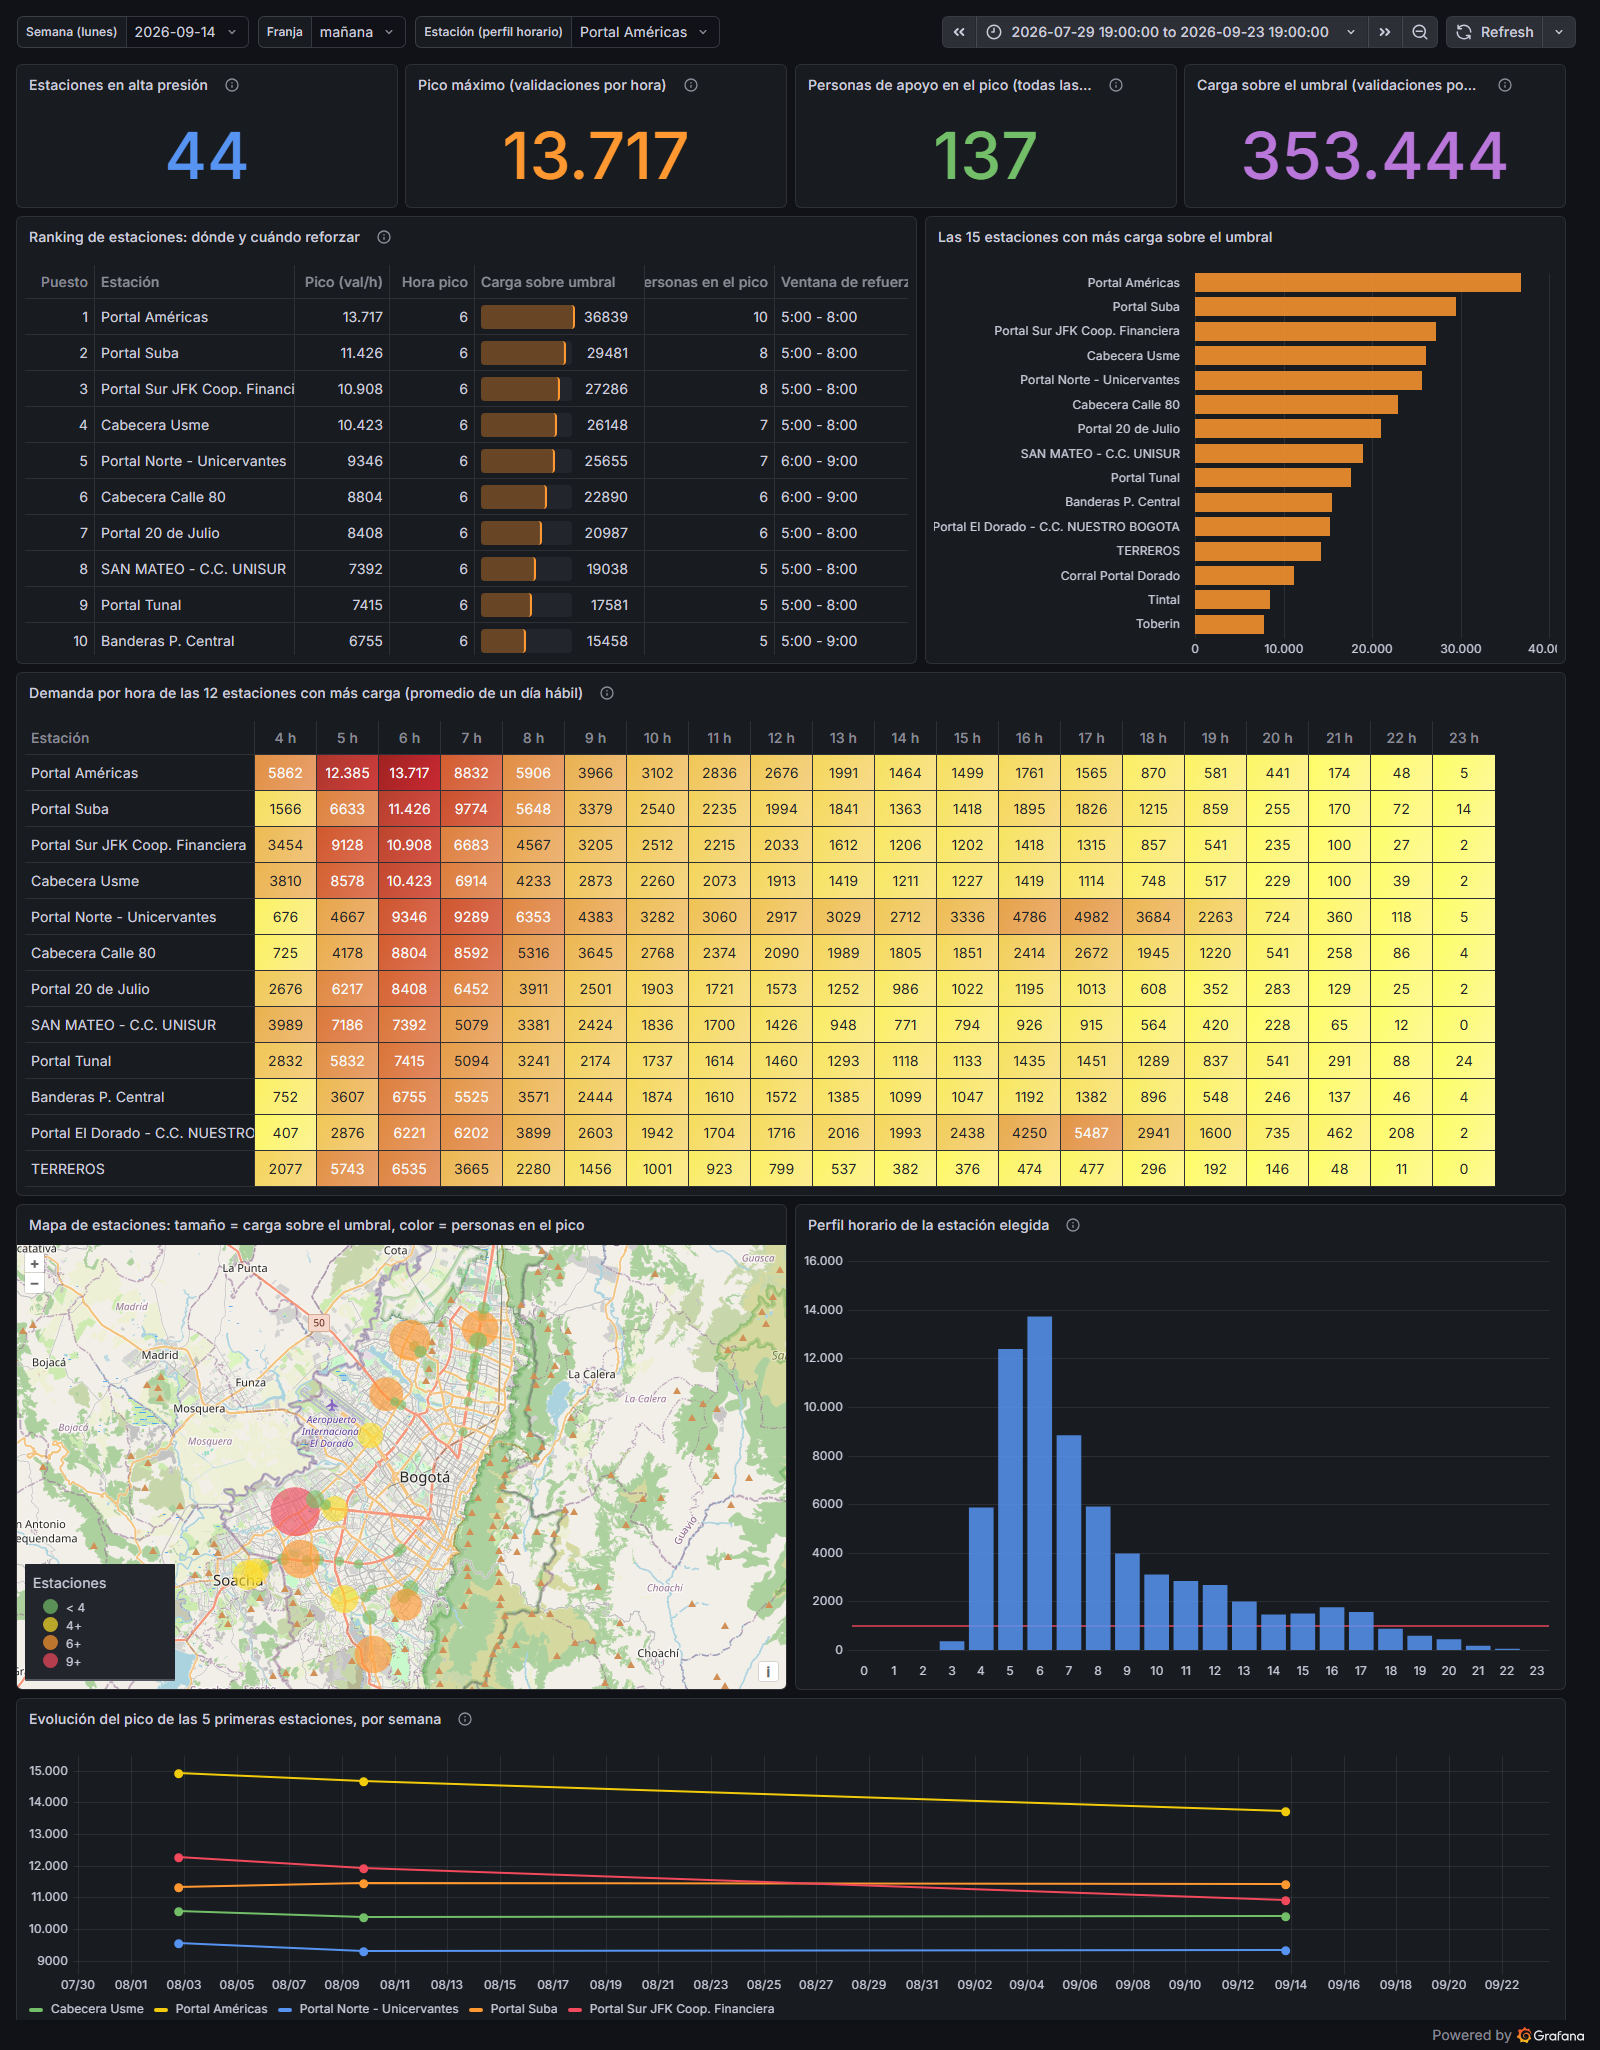
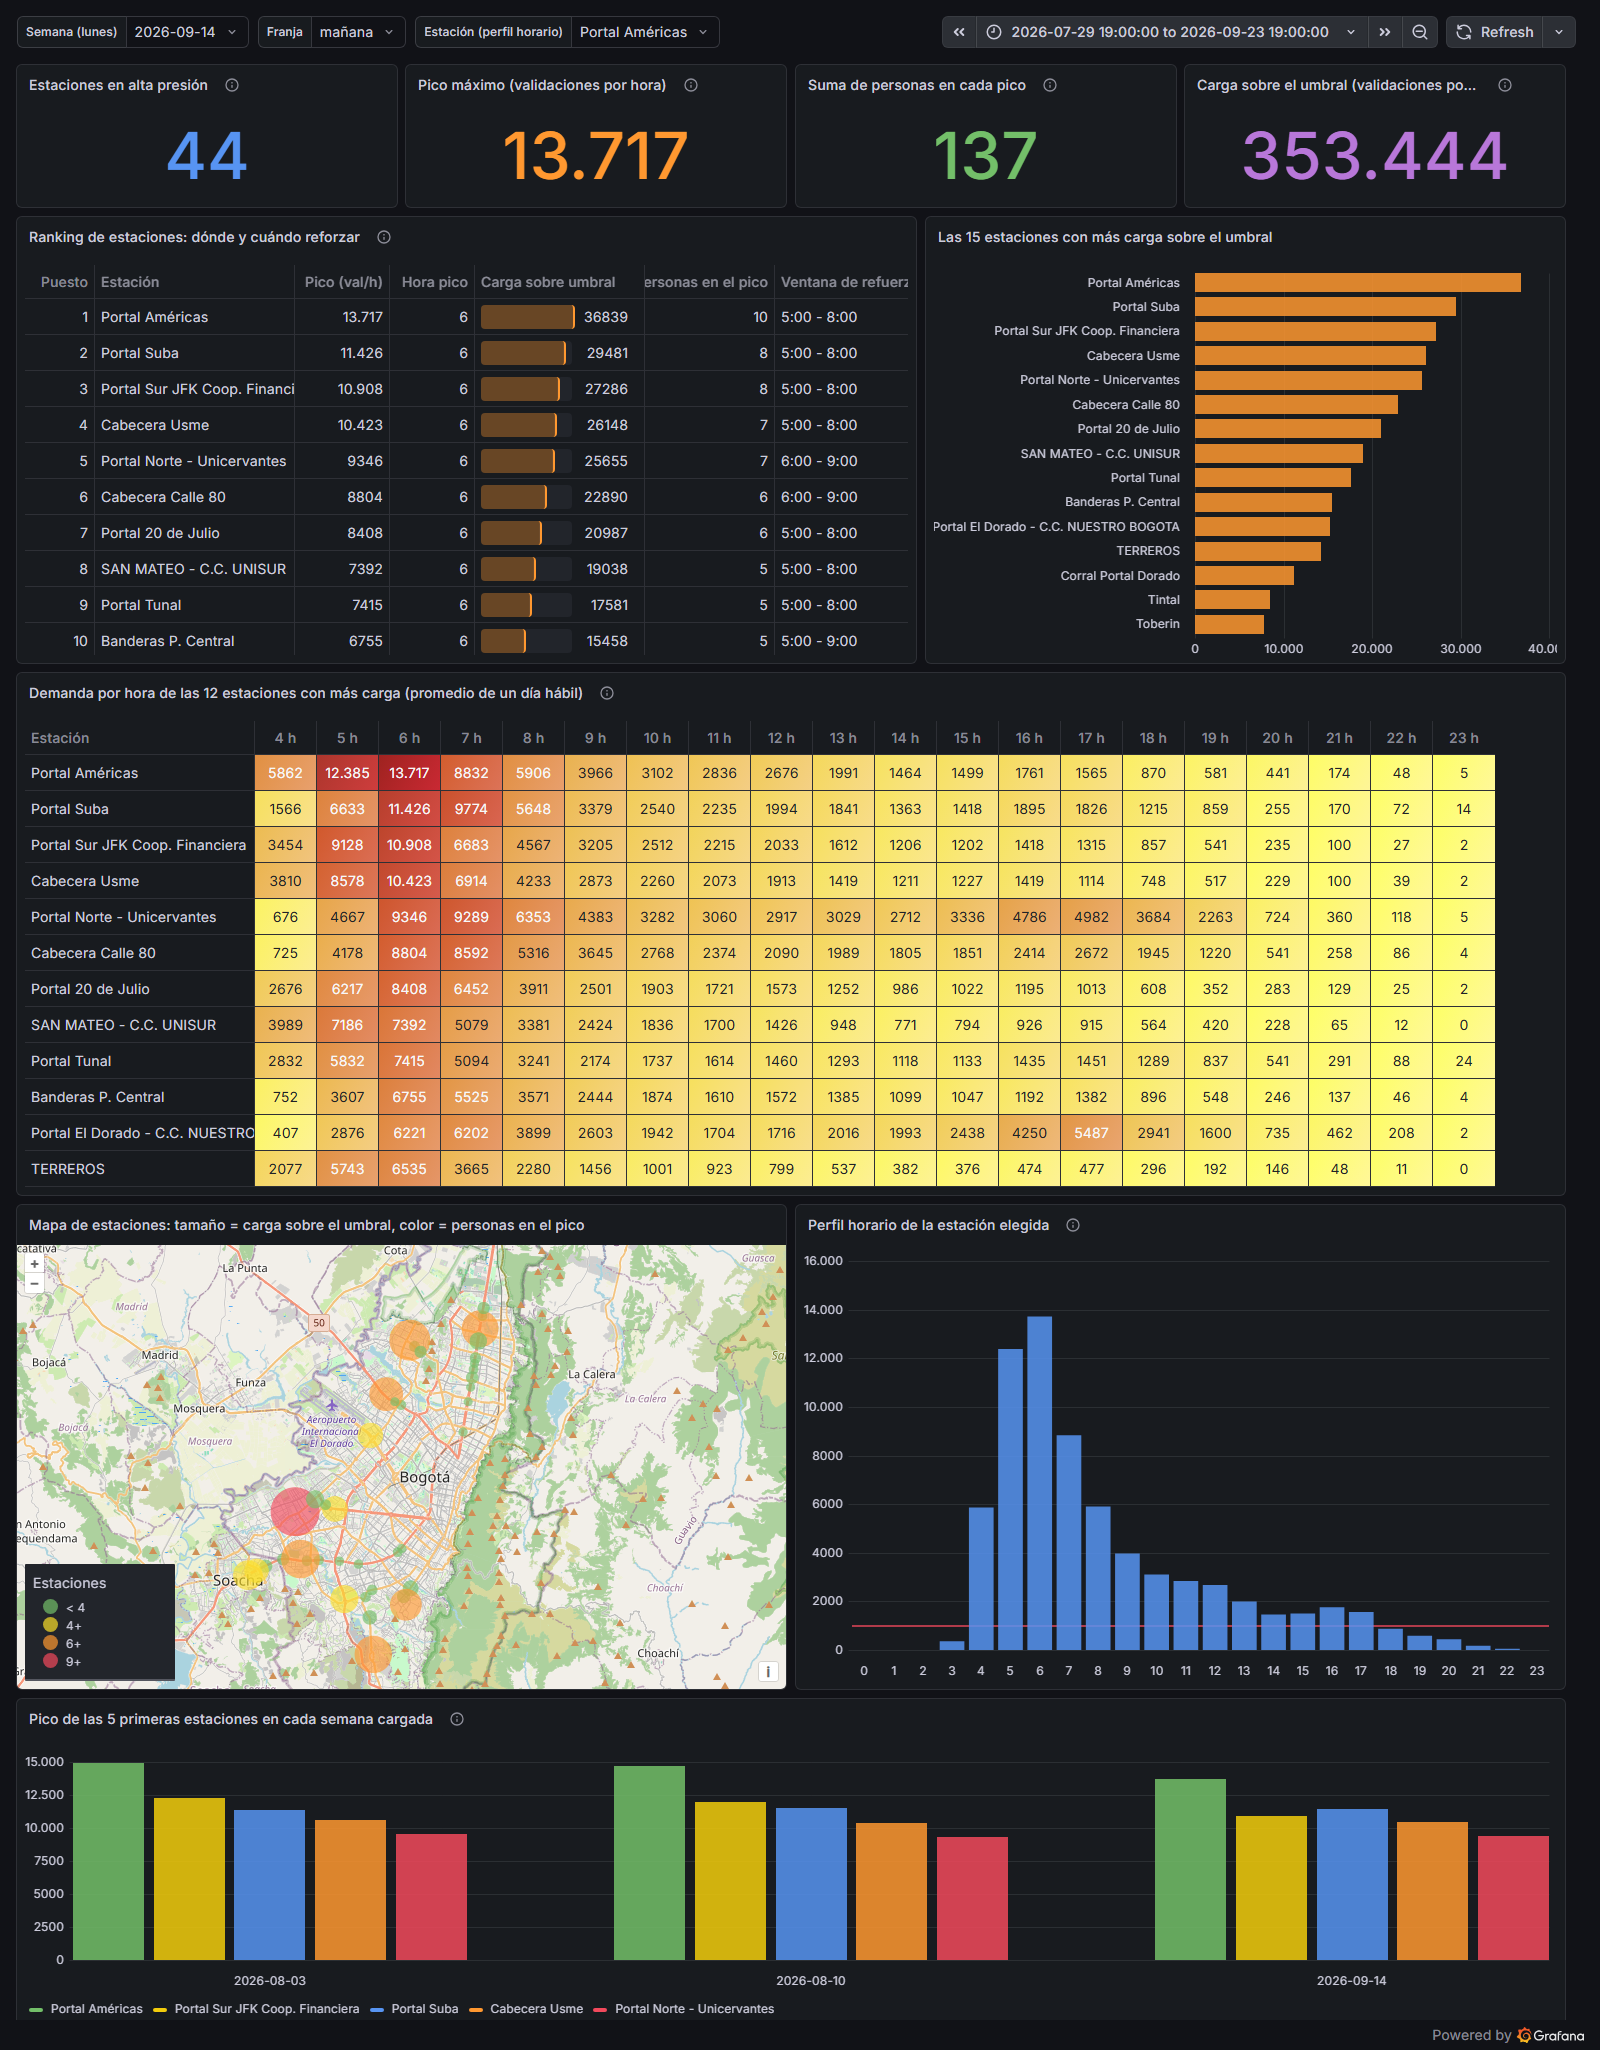
Ajustes por la revisión: tablero, arquitectura y documentación
- Tablero: el KPI de personas pasa a "Suma de personas en cada pico" con descripción que aclara que no son personas simultáneas; la evolución del pico pasa a barras agrupadas por semana. Capturas de evidencia regeneradas.
- Arquitectura: diagrama en dos bandas (ingeniería de datos y analítica) con la limpieza y el EDA a la vista; README con el mismo orden.
- .env.example: se agrega GRAFANA_ADMIN_PASSWORD.
- Objetivo 4 (notebook 03 y resultados_clave.md): el margen de incertidumbre se reporta en el notebook 04, no en la tabla de AWS.

Changed region(s): [[0.0, 0.8117, 0.9688, 0.999], [0.5312, 0.0312, 0.6562, 0.0624], [0.2188, 0.8117, 0.25, 0.8429]]

diff --git a/docs/resultados_clave.md b/docs/resultados_clave.md
@@ -76,7 +76,7 @@ Todas las cifras de esta ficha salen de los notebooks, del benchmark de Dask, de
 1. Describir cómo se distribuye la demanda de ingreso a lo largo de la semana y del día, y justificar el análisis solo con días hábiles.
 2. Ordenar las estaciones y franjas por demanda y definir, con la operación, el umbral de alta presión (punto de partida: 1.000 validaciones por hora).
 3. Construir un modelo que anticipe la demanda por estación y hora y compararlo con el promedio histórico mediante validación temporal.
-4. Entregar a la gerencia un ranking de estaciones y franjas, con su margen de incertidumbre, y un tablero.
+4. Entregar a la gerencia un ranking de estaciones y franjas y un tablero. El margen de incertidumbre del pico (intervalo del 95 % del promedio de 14 días) se reporta en el análisis del notebook 04.
 
 - **Unidad de análisis:** estación x día x hora (en días hábiles).
 - **Variable objetivo:** `validaciones` (conteo); y su versión binaria "hora de alta presión" (validaciones por encima de un umbral definido con la operación).
@@ -289,7 +289,7 @@ Evidencias: `docs/evidencias/flujo_cargas_por_semana.md` (consulta y registros d
 
 ## 8. Tablero de Grafana (punto g)
 
-`grafana/dashboard.json` (se levanta con `docker compose up -d`). Filtros: semana, franja y estación. Paneles: estaciones en alta presión, pico máximo, personas de apoyo en el pico y carga sobre el umbral; ranking con ventana de refuerzo; las 15 estaciones con más carga; demanda por hora de las 12 estaciones con más carga; mapa de estaciones; perfil horario de la estación elegida; evolución del pico por semana. Capturas a tamaño completo: `docs/evidencias/grafana_tablero_manana_semana_14sep.png` y `docs/evidencias/grafana_tablero_tarde_semana_14sep.png`.
+`grafana/dashboard.json` (se levanta con `docker compose up -d`). Filtros: semana, franja y estación. Paneles: estaciones en alta presión, pico máximo, suma de personas en cada pico y carga sobre el umbral; ranking con ventana de refuerzo; las 15 estaciones con más carga; demanda por hora de las 12 estaciones con más carga; mapa de estaciones; perfil horario de la estación elegida; pico de las cinco primeras estaciones en barras por semana. Capturas a tamaño completo: `docs/evidencias/grafana_tablero_manana_semana_14sep.png` y `docs/evidencias/grafana_tablero_tarde_semana_14sep.png`.
 
 ## 9. Limitaciones (para la sección de conclusiones del documento)
 

diff --git a/README.md b/README.md
@@ -24,7 +24,7 @@ EDA terminado. Flujo de Prefect, carga a AWS y tablero de Grafana funcionando. A
 ## Flujo, base de datos y tablero
 
 ```
-ZIP diarios → exploración con Dask (notebooks 01 a 03: fija las reglas y los parámetros) → [Prefect + Dask: aplica las reglas] → tabla analisis_estacion_hora (AWS RDS PostgreSQL) → Grafana
+ZIP diarios → Dask (Parquet) → limpieza y EDA (notebooks 01 a 03: fija las reglas y los parámetros) → [Prefect + Dask: aplica las reglas a los ZIP nuevos] → tabla analisis_estacion_hora (AWS RDS PostgreSQL) → Grafana, análisis de personal y modelo simple
 ```
 
 - `src/pipeline_transmilenio.py`: flujo de Prefect. Cuando hay una **semana completa** (7 días) que aún no está en la base, la procesa con Dask, calcula el ranking y carga el resultado con *upsert* (si se repite, no duplica). Si no hay semana nueva, termina sin hacer nada.
